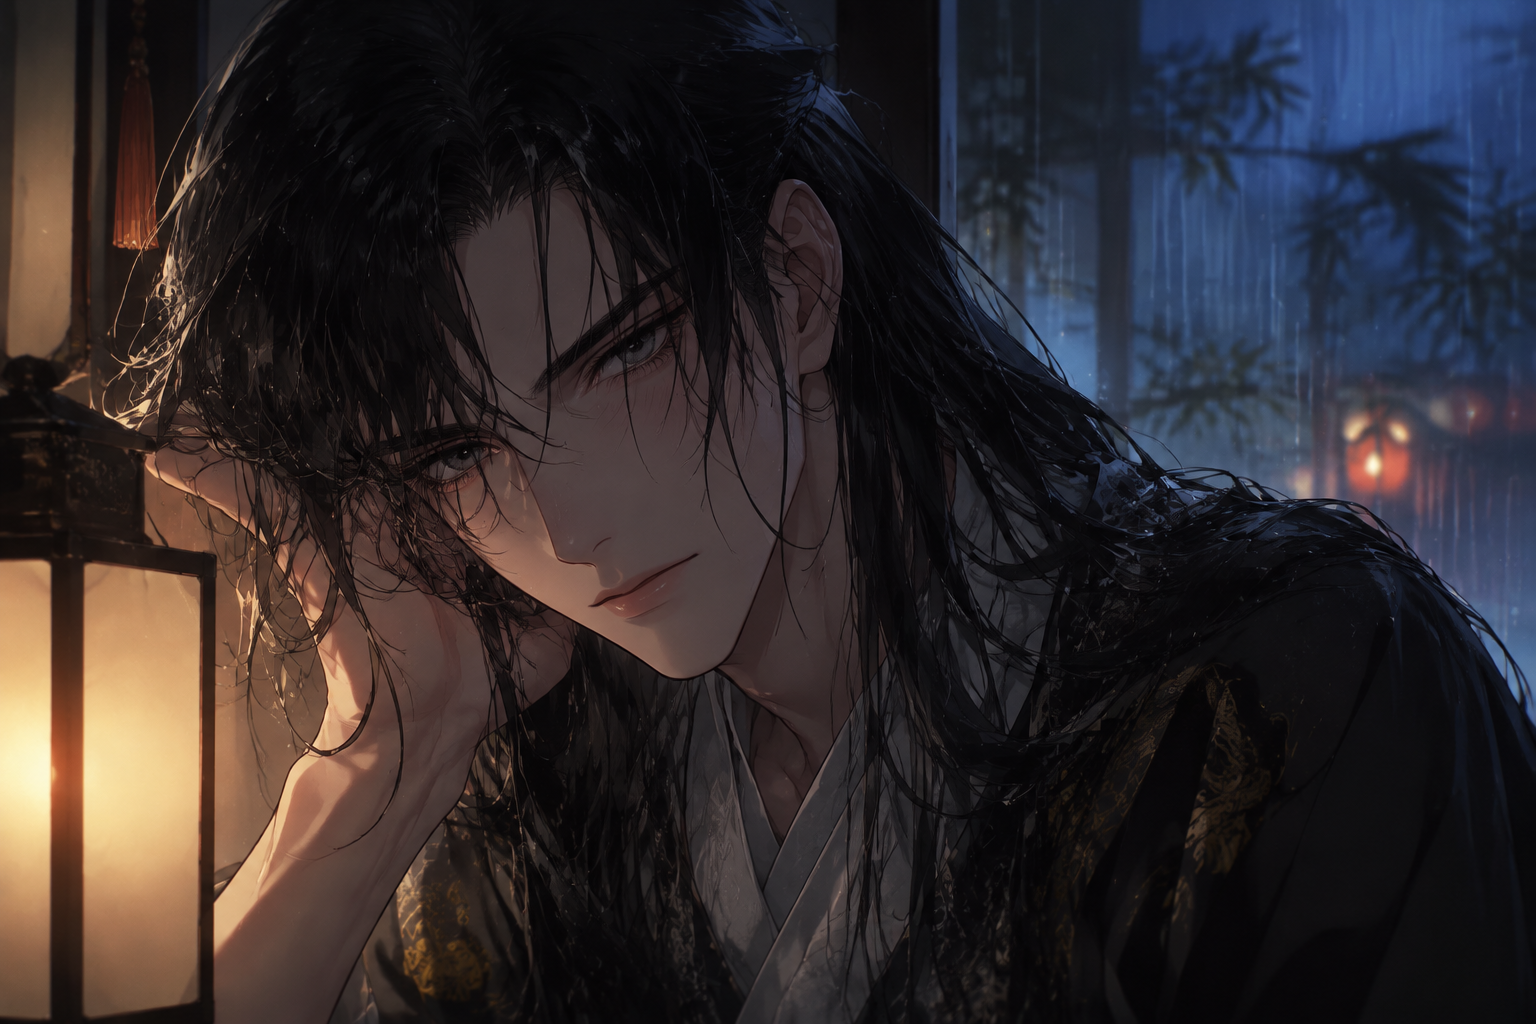
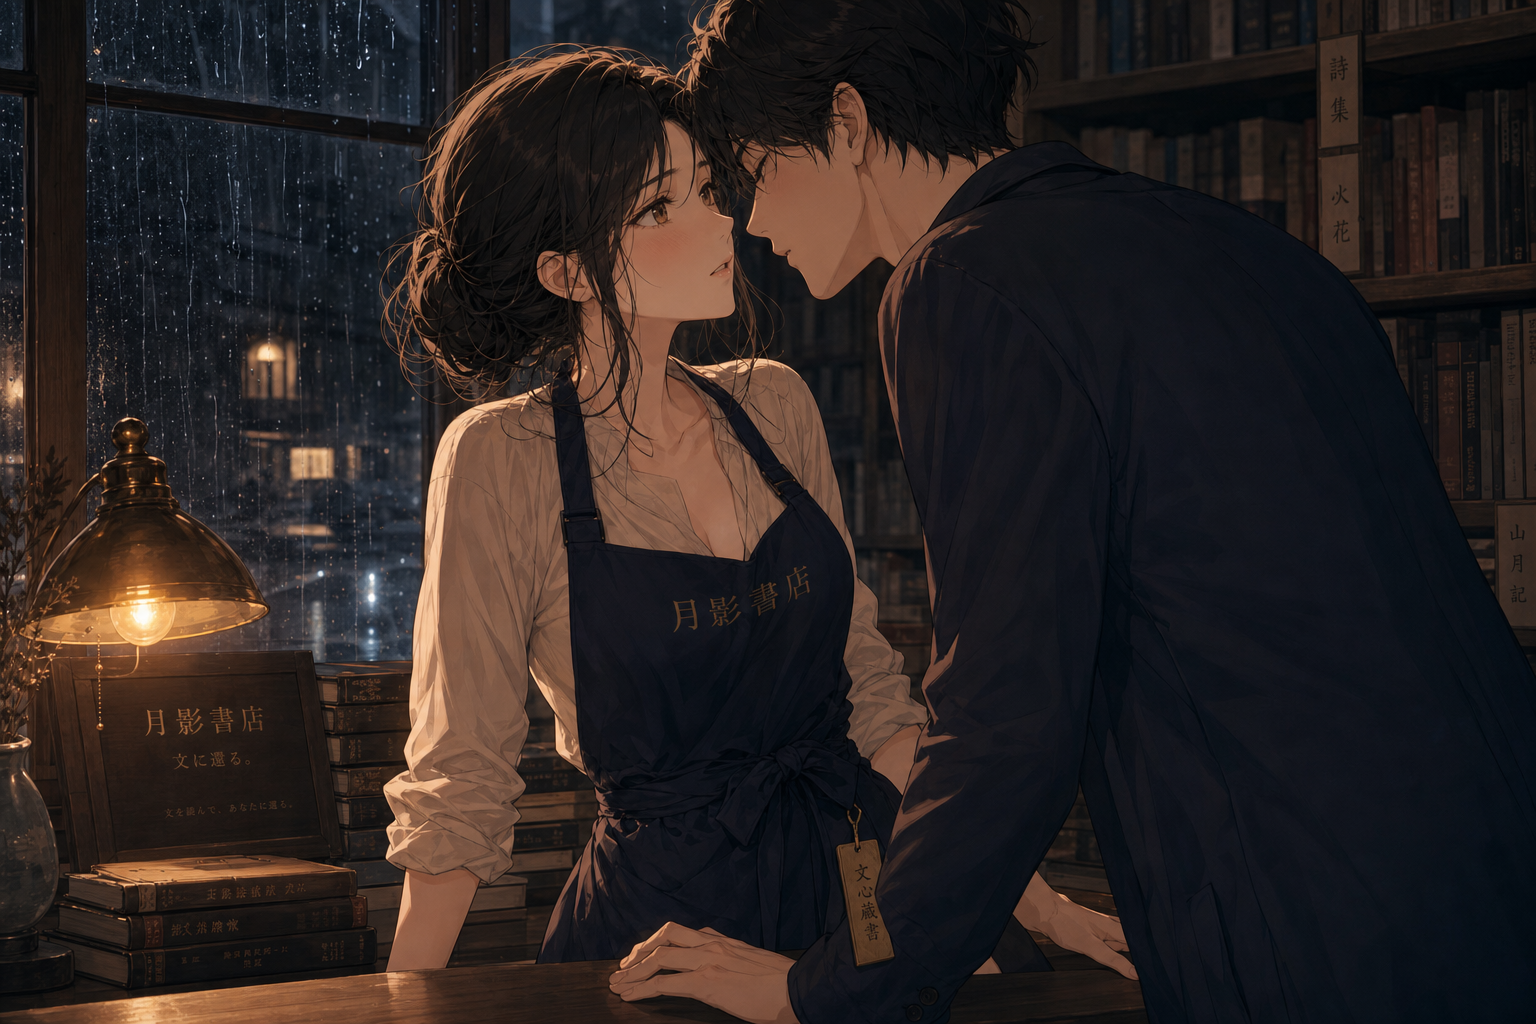
fix(assets): 按晚棠人设重绘雨困一夜 CG
- 替换错误的古风男主图为书店雨夜晚棠

diff --git a/src/data/assets.ts b/src/data/assets.ts
@@ -6,7 +6,7 @@
  *
  * ASSET_VER：换图后递增，强制浏览器绕过旧缓存
  */
-export const ASSET_VER = '20260802f'
+export const ASSET_VER = '20260802g'
 
 function asset(path: string): string {
   if (!path) return path
